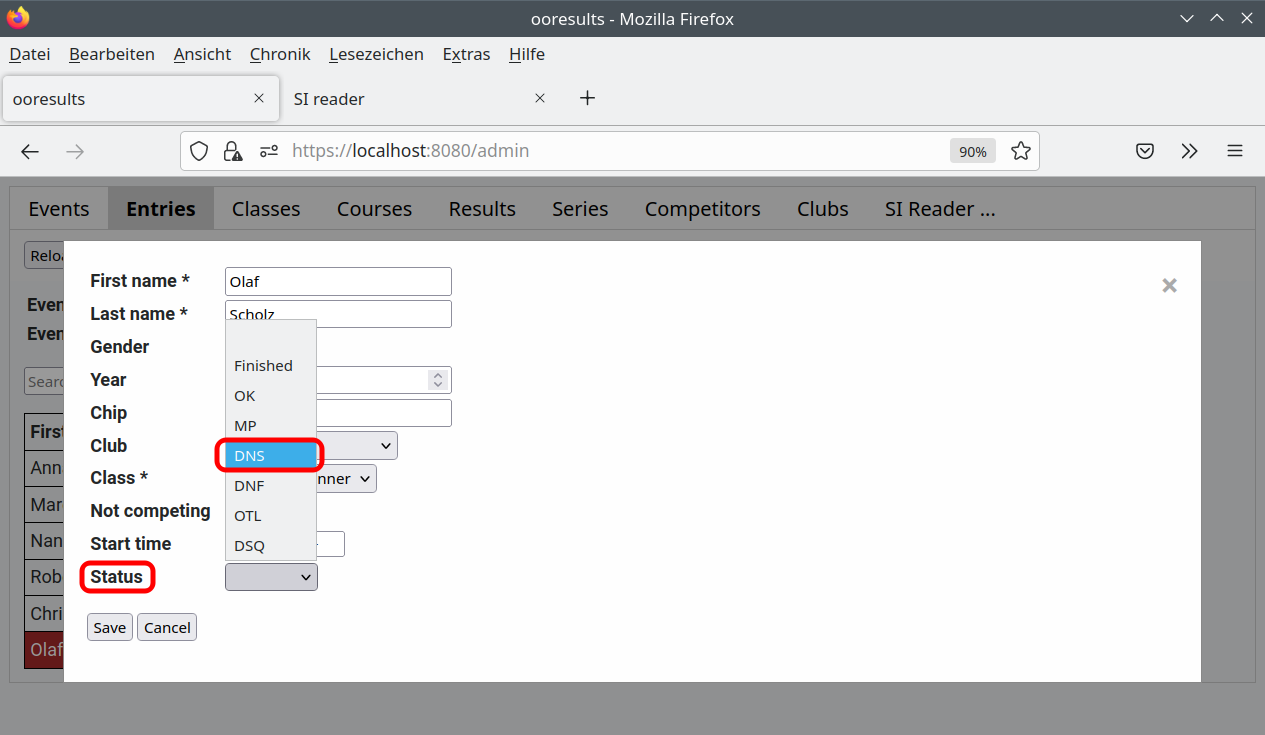
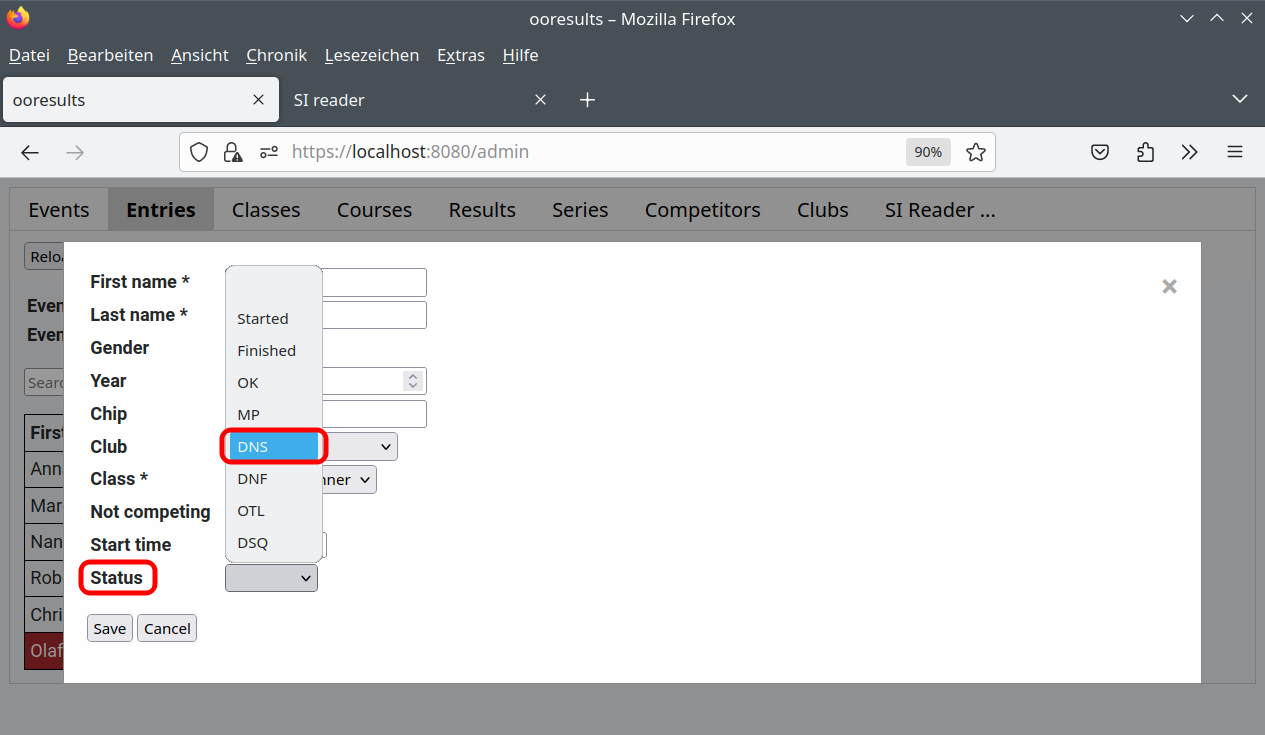
Documentation updated (status Started added)

diff --git a/docs/source/reference_guide.rst b/docs/source/reference_guide.rst
@@ -103,6 +103,10 @@ Start
 Status
 
    Es gibt folgende Zustände:
+   
+   - **Started (started)**
+   
+     Der Läufer ist gestartet, hat seine SPORTident Card aber noch nicht ausgelesen.
 
    - **OK (ok)**:
    
@@ -125,7 +129,7 @@ Status
      Mögliche Ursachen:
     
      1. Der Läufer hat den Lauf abgebrochen ohne "Ziel" zu stempeln,
-     #. Der Läufer hat "Ziel" gestempelt, aber nicht die letzten drei Kontrollstationen.
+     #. Der Läufer hat "Ziel" gestempelt, der Status wurde aber manuell auf DNF geändert.
 
    - **OTL (over time limit)**:
    
